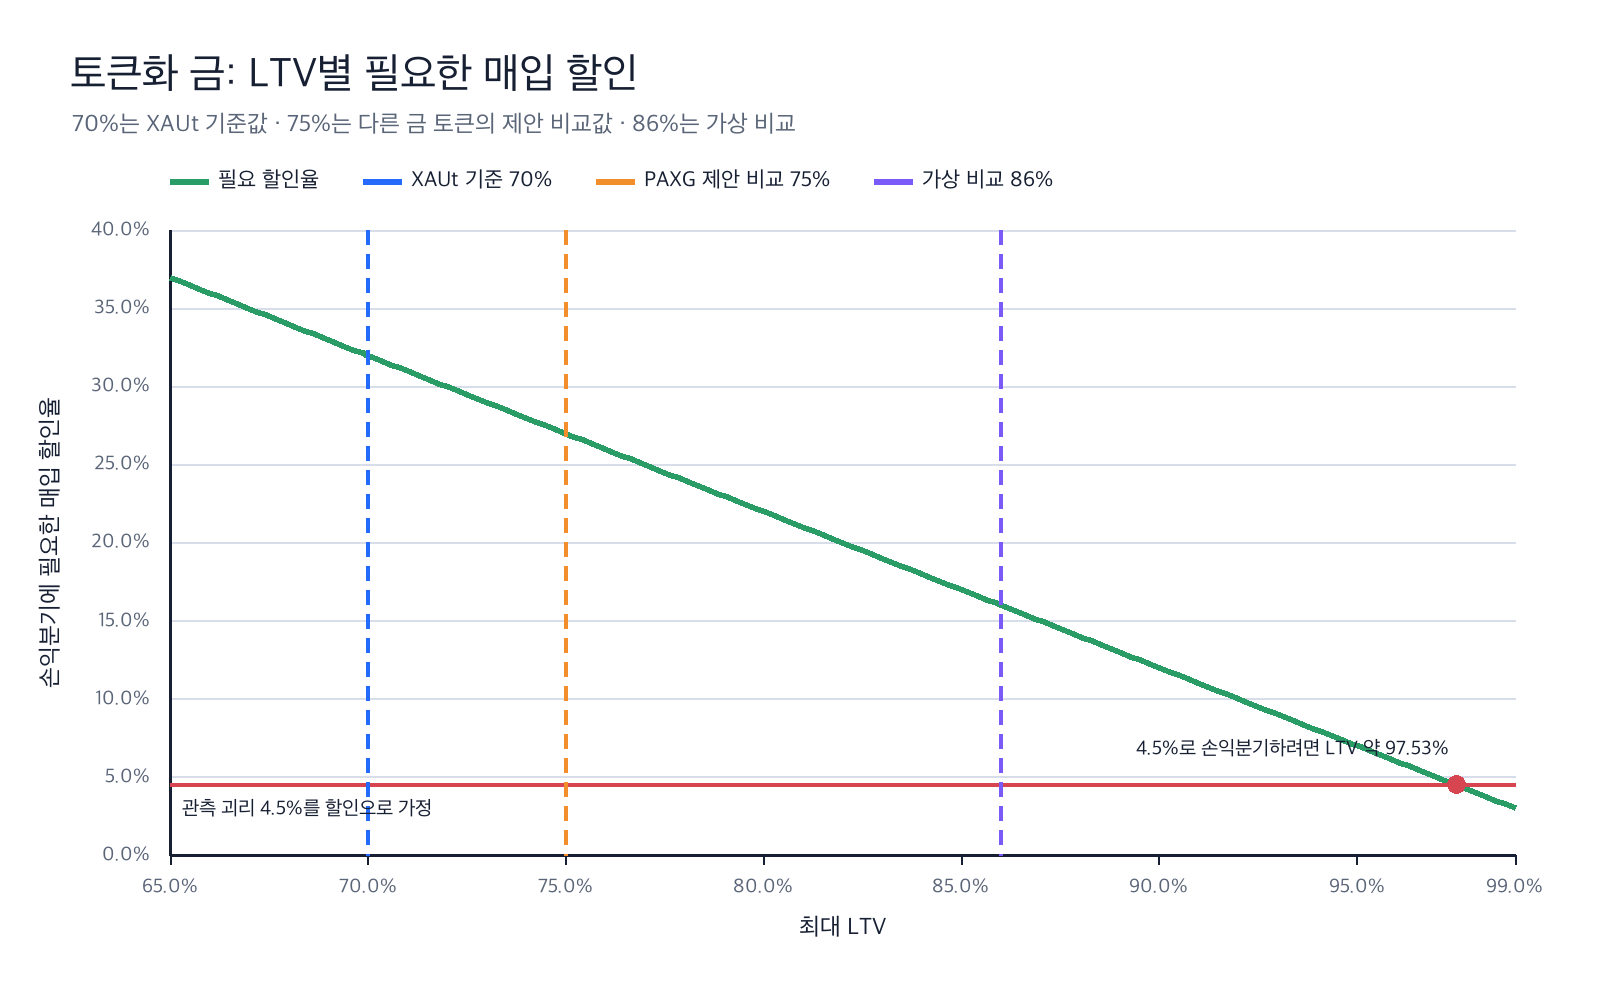
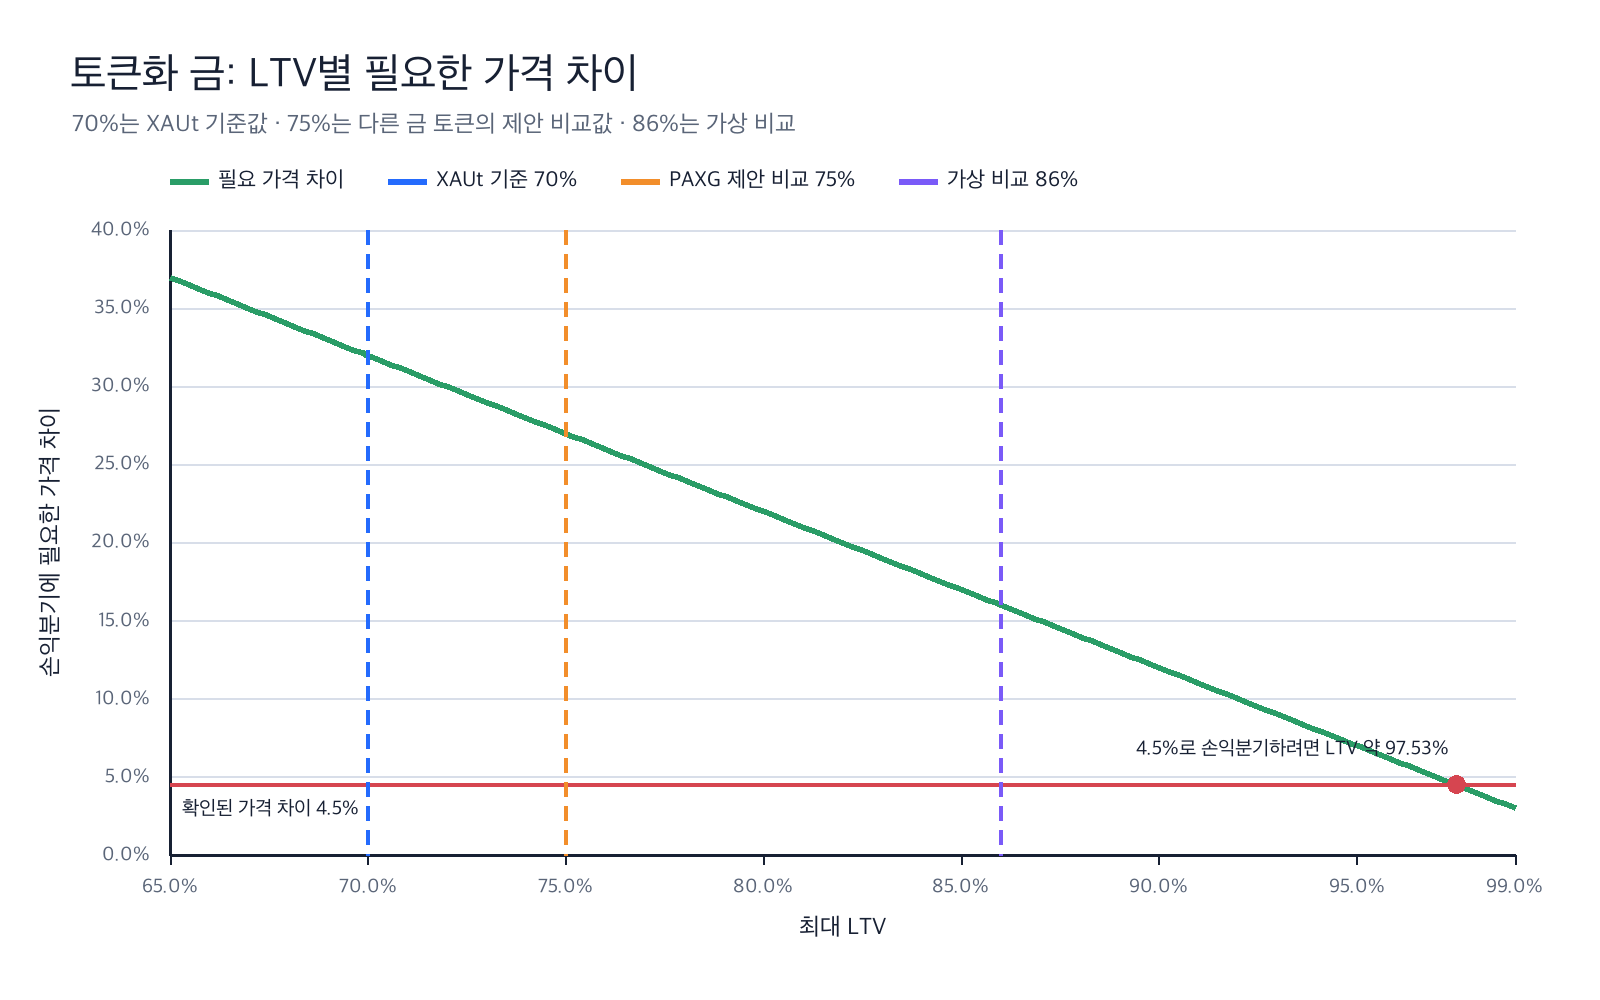
Refine commodity evidence interpretation

diff --git a/tests/commodity_simulation/test_market_mechanics.py b/tests/commodity_simulation/test_market_mechanics.py
@@ -15,8 +15,8 @@ from rwa_market_gap.commodity_simulation.market_mechanics import (
     MarketSpec,
     band_identity_report,
     leverage_zone,
+    liquidation_collateral_scope,
     liquidation_adverse_move,
-    loss_path,
     machine_for_market,
     maintenance_margin_rate,
     market_specs,
@@ -251,23 +251,32 @@ class LeverageZoneTests(unittest.TestCase):
         self.assertFalse(zone.margin_tiers_modelled)
 
 
-class LossPathTests(unittest.TestCase):
-    def test_cross_margin_has_a_backstop_stage(self) -> None:
+class MarginScopeTests(unittest.TestCase):
+    def test_cross_margin_exposes_the_shared_cross_scope(self) -> None:
         self.assertEqual(
-            loss_path("cross"),
-            ("market_liquidation", "backstop_liquidator", "adl"),
+            liquidation_collateral_scope("cross"),
+            ("cross_positions", "cross_margin_balance"),
         )
 
-    def test_isolated_margin_loses_the_backstop_stage(self) -> None:
-        self.assertEqual(loss_path("isolated"), ("market_liquidation", "adl"))
+    def test_isolated_margin_limits_the_collateral_scope(self) -> None:
+        self.assertEqual(
+            liquidation_collateral_scope("isolated"),
+            ("isolated_position", "isolated_margin_balance"),
+        )
 
     def test_natural_gas_is_the_isolated_market(self) -> None:
         engine = CommoditySimulationEngine()
         specs = {spec.symbol: spec for spec in market_specs(engine.evidence)}
-        self.assertFalse(specs["NATGAS"].has_backstop_liquidator)
+        self.assertEqual(
+            specs["NATGAS"].liquidation_collateral_scope,
+            ("isolated_position", "isolated_margin_balance"),
+        )
         for symbol in ("GOLD", "WTIOIL", "SILVER", "BRENTOIL"):
             with self.subTest(market=symbol):
-                self.assertTrue(specs[symbol].has_backstop_liquidator)
+                self.assertEqual(
+                    specs[symbol].liquidation_collateral_scope,
+                    ("cross_positions", "cross_margin_balance"),
+                )
 
 
 class HormuzGoldenCaseTests(unittest.TestCase):
@@ -294,6 +303,16 @@ class HormuzGoldenCaseTests(unittest.TestCase):
         self.reopen = float(
             self.engine.evidence.value(
                 "events.wti_second_weekend.cme_reopen_price_usd"
+            )
+        )
+        self.short_liquidations = float(
+            self.engine.evidence.value(
+                "events.wti_second_weekend.short_liquidations_usd"
+            )
+        )
+        self.long_liquidations = float(
+            self.engine.evidence.value(
+                "events.wti_second_weekend.long_liquidations_usd"
             )
         )
         wti_spec = {spec.symbol: spec for spec in self.engine.market_specs()}[
@@ -335,6 +354,19 @@ class HormuzGoldenCaseTests(unittest.TestCase):
                     "events.wti_second_weekend.reanchor_active_during_event"
                 )
             )
+        )
+
+    def test_external_reopen_recognition_gap_is_12_10_percentage_points(self) -> None:
+        recognition_gap = (self.reopen - self.observed_mark) / self.cme_close
+        self.assertAlmostEqual(recognition_gap, 0.121040, places=6)
+
+    def test_liquidation_imbalance_is_observed_context_not_attack_profit(self) -> None:
+        self.assertEqual(self.short_liquidations, 36_900_000.0)
+        self.assertEqual(self.long_liquidations, 2_100_000.0)
+        self.assertAlmostEqual(
+            self.short_liquidations / self.long_liquidations,
+            17.5714285714,
+            places=8,
         )
 
 

diff --git a/rwa_market_gap/commodity_simulation/market_mechanics.py b/rwa_market_gap/commodity_simulation/market_mechanics.py
@@ -6,7 +6,8 @@ published venue parameters, with no cost assumption and no attacker model:
 * the band identity ``band_rate == 1 / max_leverage``;
 * the reanchor state machine and the hard cap it implies;
 * the maintenance-margin and liquidation-trigger arithmetic that decides which
-  leverage bands the discovery bound actually protects.
+  leverage bands the discovery bound actually protects;
+* the collateral scope implied by cross and isolated margin.
 
 These are the strongest claims in the scenario because every input is grade-A
 published data, so they are kept separate from the assumption-driven WTI, gold,
@@ -59,13 +60,18 @@ def liquidation_adverse_move(
     )
 
 
-def loss_path(margin_mode: MarginMode) -> tuple[str, ...]:
-    """Documented order of loss absorption; the stages are not simulated."""
+def liquidation_collateral_scope(margin_mode: MarginMode) -> tuple[str, ...]:
+    """Collateral exposed to liquidation under the published margin mode.
+
+    Margin mode determines the scope of collateral, not whether a backstop or
+    ADL stage was available or used in a particular event. Those later stages
+    require event-specific evidence and are intentionally not inferred here.
+    """
 
     if margin_mode == "cross":
-        return ("market_liquidation", "backstop_liquidator", "adl")
+        return ("cross_positions", "cross_margin_balance")
     if margin_mode == "isolated":
-        return ("market_liquidation", "adl")
+        return ("isolated_position", "isolated_margin_balance")
     raise ValueError(f"unsupported margin mode: {margin_mode}")
 
 
@@ -120,12 +126,8 @@ class MarketSpec:
         return self.upward_hard_cap_rate / self.bankruptcy_move_at_max_leverage
 
     @property
-    def has_backstop_liquidator(self) -> bool:
-        return self.margin_mode == "cross"
-
-    @property
-    def documented_loss_path(self) -> tuple[str, ...]:
-        return loss_path(self.margin_mode)
+    def liquidation_collateral_scope(self) -> tuple[str, ...]:
+        return liquidation_collateral_scope(self.margin_mode)
 
     @classmethod
     def from_ledger(cls, ledger: VerifiedInputLedger, symbol: str) -> "MarketSpec":

diff --git a/scripts/plot_commodity_results.py b/scripts/plot_commodity_results.py
@@ -471,7 +471,7 @@ def draw_gold_ltv_sensitivity(
 ) -> None:
     canvas = PlotCanvas(
         title=(
-            "토큰화 금: LTV별 필요한 매입 할인"
+            "토큰화 금: LTV별 필요한 가격 차이"
             if korean
             else "Tokenized Gold: Required Discount by Max LTV"
         ),
@@ -487,7 +487,7 @@ def draw_gold_ltv_sensitivity(
         ),
         x_label="최대 LTV" if korean else "Maximum LTV",
         y_label=(
-            "손익분기에 필요한 매입 할인율"
+            "손익분기에 필요한 가격 차이"
             if korean
             else "Acquisition discount required to break even"
         ),
@@ -511,7 +511,7 @@ def draw_gold_ltv_sensitivity(
     canvas.draw.text(
         (canvas.left + 12, canvas.y(data.tested_divergence_as_discount) + 12),
         (
-            "관측 괴리 4.5%를 할인으로 가정"
+            "확인된 가격 차이 4.5%"
             if korean
             else "Observed 4.5% divergence used as discount"
         ),
@@ -543,7 +543,7 @@ def draw_gold_ltv_sensitivity(
         )
     canvas.legend(
         (
-            ("필요 할인율" if korean else "Required discount", GREEN),
+            ("필요 가격 차이" if korean else "Required discount", GREEN),
             ("XAUt 기준 70%" if korean else "XAUt baseline 70%", BLUE),
             (
                 "PAXG 제안 비교 75%"

diff --git a/scripts/run_commodity_simulation.py b/scripts/run_commodity_simulation.py
@@ -75,6 +75,12 @@ def print_hormuz_golden_case(engine: CommoditySimulationEngine) -> None:
             "is verified as the static upper bound"
         )
     reopen = float(engine.evidence.value(f"{prefix}.cme_reopen_price_usd"))
+    short_liquidations = float(
+        engine.evidence.value(f"{prefix}.short_liquidations_usd")
+    )
+    long_liquidations = float(
+        engine.evidence.value(f"{prefix}.long_liquidations_usd")
+    )
     wti_spec = {spec.symbol: spec for spec in engine.market_specs()}["WTIOIL"]
     implied_venue_reference = observed_mark / (1.0 + wti_spec.band_rate)
     static = machine_for_market(
@@ -100,6 +106,20 @@ def print_hormuz_golden_case(engine: CommoditySimulationEngine) -> None:
     print(
         f"  external reopen={reopen:.2f} exceeds the reanchored ceiling: "
         f"{reopen > reanchored_cap}"
+    )
+    recognition_gap_pp = (reopen - observed_mark) / cme_close
+    print(
+        "  return gap on the common Friday-close base="
+        f"{recognition_gap_pp:.3%}p"
+    )
+    print(
+        f"  observed 24h liquidations: shorts={usd(short_liquidations)}, "
+        f"longs={usd(long_liquidations)}, "
+        f"short/long={short_liquidations / long_liquidations:.1f}x"
+    )
+    print(
+        "  context only: these observations do not establish strategy fills, "
+        "attack profit, funding failure, or ADL"
     )
     print()
 

diff --git a/docs/commodity_simulation.md b/docs/commodity_simulation.md
@@ -1,6 +1,6 @@
 # 원자재 시나리오 시뮬레이션
 
-이 패키지는 WTI·토큰화 금·천연가스 시나리오의 경제적 조건을 검증하는 공개 모델입니다.
+이 패키지는 WTI·토큰화 금·천연가스 시나리오의 경제적 조건을 검증하는 공개 모델입니다. 세 시나리오의 공통 질문은 **체인이 정상 작동하더라도, 체인이 참조하는 가격과 실제 위험을 보여주는 시장 가격이 어긋나면 경제적 위험이 남는가**입니다. WTI와 금은 이 차이가 특정 조건에서 경제적 이익으로 이어지는지 계산하고, 천연가스는 실제 노출과 다른 벤치마크를 선택한 문제를 진단합니다. 세 모델을 하나의 공격 수익 모델로 묶지는 않습니다.
 
 ```text
 rwa_market_gap/commodity_simulation/
@@ -22,6 +22,7 @@ tests/commodity_simulation/
 | 펀딩 크기를 가정값으로만 사용 | 순이익을 0으로 만드는 펀딩률을 폐형식으로 출력 |
 | 금 체결비용이 규모와 독립 | 관측 유동성 점을 지나는 파워법칙 시장충격 민감도 |
 | 천연가스 달러 추적오차 즉시 출력 | 사건 시작·종료일이 없으면 달러 환산 차단 |
+| 격리 마진이면 백스톱이 없다고 추론 | 마진 모드는 청산 대상 담보 범위만 구분하고 백스톱·ADL은 사건 자료가 없으면 미확인 |
 | 0.5% 갱신을 선형 합산하여 25회 | 복리 갱신으로 23회 |
 | `49시간`·`6%`를 코드에 하드코딩 | 원장 레코드에서 로드하고 6%는 평균 교환 영향의 상한 프록시로 해석 |
 | 민감도 표에 값이 평평한 행이 그대로 노출 | 비활성 사유를 함께 출력하고 테스트로 강제 |
@@ -91,6 +92,8 @@ CME 비교용 종가                  91.35
 ```
 
 `91.35`달러는 CME 비교 기준이며 장소별 디스커버리 바운드 기준가가 아닙니다. 공급된 보고서가 `95.833`달러를 해당 장소의 5% 정적 상한으로 설명하므로, 장소별 기준가는 `95.833 / 1.05`로 역산합니다. 리앵커가 사건 당시 활성이 아니었다는 사실은 원장의 `reanchor_active_during_event=false`로 기록되어 있고 테스트로 고정했습니다.
+
+금요일 종가를 공통 기준으로 두면 온체인 마크와 외부시장 재개가 사이의 수익률 차이는 `(106.89 - 95.833) / 91.35 = 12.10%p`입니다. 같은 사건의 24시간 관측치는 숏 청산 약 **3,690만 달러**, 롱 청산 약 **210만 달러**로 숏이 약 **17.6배** 컸습니다. 이는 가격 충격과 포지션 쏠림의 규모를 보여주는 보조 자료일 뿐, 이 모델의 공격 수익·실제 체결·펀딩 실패·ADL 발생을 입증하지 않습니다. ([CoinDesk 사건 보도](https://www.coindesk.com/markets/2026/03/09/oil-shorts-on-hyperliquid-get-wiped-out-as-crude-surges-30-on-iran-escalation-triggering-usd40-million-in-liquidations))
 
 ## WTI: 스트레스 사건별 사후 기회
 
@@ -187,6 +190,8 @@ f* = (실현이익 - 수수료 - 슬리피지 - 자본비용) / 명목
 
 75%는 XAUt에 적용된 값이 아니므로 기준값으로 바꾸지 않습니다. 80%와 86%도 추천 파라미터가 아니라 결론이 어디서 뒤집히는지 보기 위한 비교값입니다. 현재 비용과 유동성 가정을 그대로 두면 4.5% 할인으로 손익분기하기 위해 약 **97.53% LTV**가 필요합니다.
 
+여기서 **16.02%는 시스템이 무너지거나 부실해지는 기준이 아닙니다.** LTV를 86%로 높인 가상 비교에서, 선언한 비용을 반영한 전략의 순이익이 0이 되려면 필요한 가격 차이입니다.
+
 이 분석에는 몬테카를로를 쓰지 않습니다. LTV와 할인율의 확률분포를 뒷받침할 자료가 없기 때문입니다. 대신 공개값·외부 비교값·가상 비교값을 분리하고 같은 식에 하나씩 대입합니다.
 
 ### 숫자의 출처 구분
@@ -214,6 +219,8 @@ attack_success_probability=None
 ```
 
 날짜가 검증되기 전에는 100만 달러를 곱한 919,000달러를 사건 손실로 출력하지 않습니다. 호출자가 날짜를 직접 넘기는 것만으로는 검증 상태가 되지 않으며, 시작일과 종료일이 증거 원장에 모두 있어야 합니다.
+
+NATGAS의 격리 마진은 해당 포지션과 배정 담보만 청산 범위에 둔다는 뜻입니다. 이것만으로 백스톱이 없거나 손실이 곧바로 일반 사용자에게 ADL로 넘어간다고 결론낼 수는 없습니다. 공개 문서에는 격리 포지션도 시장 청산 뒤 백스톱 청산으로 이어질 수 있고, 포지션 가치가 음수가 되면 ADL이 작동할 수 있다고 설명되어 있습니다. 다만 공급된 천연가스 사건 자료에는 실제 백스톱·ADL 실행 기록이 없으므로 본 모델은 어느 단계도 발생했다고 출력하지 않습니다. ([청산 문서](https://hyperliquid.gitbook.io/hyperliquid-docs/trading/liquidations), [ADL 문서](https://hyperliquid.gitbook.io/hyperliquid-docs/trading/auto-deleveraging))
 
 ## 민감도
 
@@ -288,6 +295,7 @@ python3 -m unittest discover -s tests -v
 - WTI 공격 성공확률 또는 연간 빈도
 - 실제 계정이 관측 마크에서 진입하고 재개가에서 청산했다는 주장
 - 실제 ADL·백스톱 손실 규모
+- 천연가스 사건에서 백스톱 또는 ADL이 실제로 작동한 순서와 손실 귀속
 - 현재 토큰화 금 시장의 안전성
 - 천연가스 벤치마크 괴리로 919,000달러 손실이 실현됐다는 주장
 - 사건 당시 실제 펀딩이 손익분기 아래에 있었다는 주장. 손익분기 수준만 계산했을 뿐 실측 펀딩 이력은 확보하지 못했습니다.

diff --git a/README.md b/README.md
@@ -30,6 +30,8 @@
 
 공시 가격 밴드와 마진 구조를 재현하고 WTI·천연가스·토큰화 금의 공격 비용(CoC), 조건부 수익(PfC), 순이익, 손익분기 조건 계산
 
+WTI는 조건부 사후 경제성, 금은 가격 괴리 반증, 천연가스는 벤치마크 불일치를 각각 검증하며 세 결과를 하나의 공격 수익으로 합산하지 않음. 격리 마진은 청산 담보 범위만 구분하고 미확인 백스톱·ADL은 추정하지 않음.
+
 - 코드: `rwa_market_gap/commodity_simulation/`
 - 입력: `data/commodity_simulation/`
 - 테스트: `tests/commodity_simulation/`
@@ -48,9 +50,9 @@
 python3 -m unittest discover -s tests -v
 ```
 
-전체 테스트 107개 / 원자재 시나리오 전용 테스트 80개
+전체 테스트 109개 / 원자재 시나리오 전용 테스트 82개
 
-원자재 전용 80개 구성: 공시 파라미터 메커니즘 33개 / 비용·수익 계산 38개 / 시각화 수치 9개
+원자재 전용 82개 구성: 공시 파라미터 메커니즘 35개 / 비용·수익 계산 38개 / 시각화 수치 9개
 
 테스트 범위: 입력 수식과 경계조건의 코드 내 일관성 확인
 
